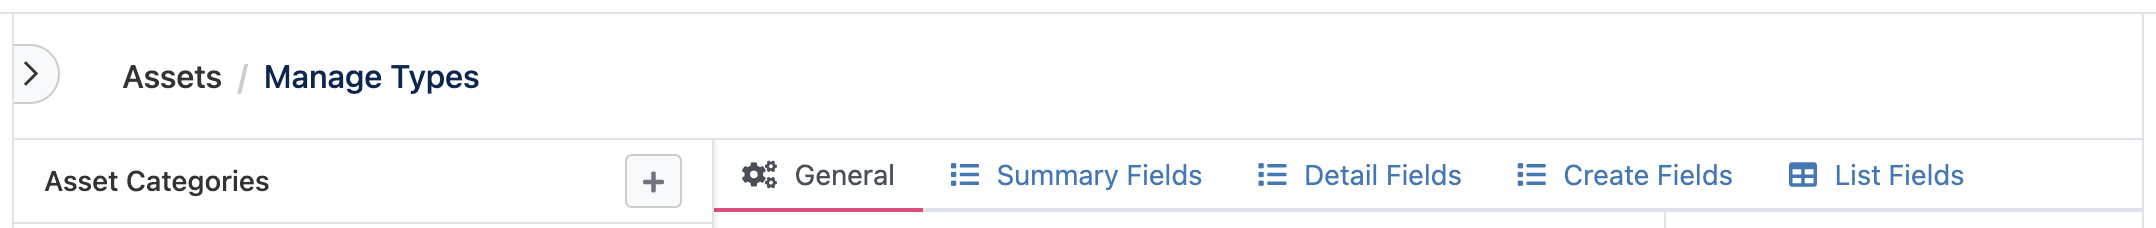
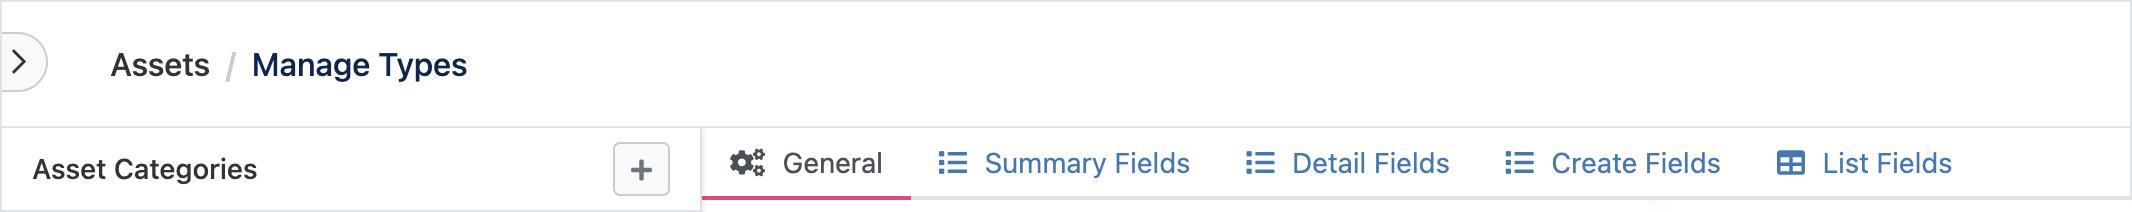
Asset Preview updates
* Added notice to top of Manage Asset Types.
* Fixed markdown layout issues on manage-asset-types.md
* Added section for Common fields
* Added common field button image
* Updated assets-general-tab image
* Removed replicated information
* Removed duplicate md page and added redirect
* Multiple spelling corrections
* Added list of default asset types to the asset structure page.

diff --git a/servicemanager-config/assets/manage-asset-types.md b/servicemanager-config/assets/manage-asset-types.md
@@ -4,64 +4,83 @@ layout: article-toc
 
 # Manage asset types
 
-::: note
-This document covers the [preview release](/servicemanager-config/assets/overview#preview-visibility) of the new asset management features and user interface. You can find documentation for the current UI [here](/servicemanager-user-guide/asset-management/manage-asset-types).
+:::note
+[[INCLUDE https://raw.githubusercontent.com/Hornbill-Docs/hdoc-library/main/hdoc-library/service-manager/new-assets-note.md]]
 :::
 
 Asset management within Hornbill Service Manager allows you to organize and present detailed information about each asset. By organizing assets into specific types, you can establish a comprehensive framework of fields and data tailored to each asset. This approach ensures that all relevant information is readily accessible for any asset.
 
 ## Before you begin
+
 * The [Asset Management Admin role](/servicemanager-config/setup/service-manager-roles#asset-management-roles) is required to manage asset types and categories.
 * Know how to access the [Service Manager Configuration](/servicemanager-config/index#access-service-manager-configuration).
-* To access the Manage Types section in Service Manager configuration, the [new asset preview](/servicemanager-config/assets/overview#new-asset-preview) must be enabled.
 * Understand how the [asset classes, types, and categories are structured](/servicemanager-config/assets/asset-structure).
 * Decide whether you want to [enable asset partitions](/servicemanager-config/assets/manage-partitions) on your instance.
 
 ## Asset Categories
-The Asset Categories panel lists the available asset types along with the option to create and manage the asset type categories.  
+
+Asset Categories allow you to group asset types into logical categories. The Asset Categories panel shows each category and their associated asset types.
 
 ![Asset Categories Panel](/_books/servicemanager-config/images/asset-categories-panel.png)
 
 From the asset categories list you can:
+
 * Create a new category by clicking on the `+` button in the title bar.
 * Select an existing category to view the properties of that category.
 * To the right of the category name, click on the `+` to add a new asset type under that category.
 * Select an existing asset type to view the properties of that asset type.
 * Drag-and-drop asset types between categories.
 
-#### Uncategorized
+### Uncategorized
+
 Any asset type without a category will be listed under **Uncategorized**. From this list, you can drag-and-drop an asset type onto an appropriate category.
 
 Alternatively, by clicking on the Uncategorized title, suggested categories are provided for each uncategorized asset type. Clicking on the `Create and Assign` button will create the new suggested category and add the selected asset types to that category.
 
-## Configuring asset types
+### Asset Category details
+
+When you select a category, you can view and edit the details of that category in the right panel.
+
+#### Available Asset List Columns
+
+The **Available Asset List Columns** section allows you to choose which fields are available to users when viewing a list of assets by category.
+
+##### Use Class Defaults
+
+![Use Class Defaults button](/_books/servicemanager-config/images/assets-use-class-defaults-button.png)
+
+Selecting this button will reset the list of available fields with the default fields for the asset class associated to the category.
+
+##### Category Common field
+
+![Common field](/_books/servicemanager-config/images/assets-common-field-button.png)
+
+Common fields are fields that are shared by all assets. When you add a common field as an available column, users will be able to view this column as part of their category asset list.
+
+## Asset Types
+
 To customize your users' view of assets, navigate to **Configuration > Service Manager > Assets > Manage Types**. Here you'll work in the following tabs:
 
-* [General](/servicemanager-config/assets/manage-asset-types#general). Configure the asset type's summary card, its icon, and so on.
-* [Summary fields](/servicemanager-config/assets/manage-asset-types#summary-fields). Choose the fields that a user sees when viewing an asset in the Summary view.
-* [Detail fields](/servicemanager-config/assets/manage-asset-types#detail-fields). Choose the fields that a user sees when viewing an asset in the Details view.
-* [Create fields](/servicemanager-config/assets/manage-asset-types#create-fields). Choose the fields available to users when new assets are being created.
-* [List fields](/servicemanager-config/assets/manage-asset-types#list-fields). Choose the fields that a user sees when viewing the list of assets in an asset type.
-
-::: tip
-You may find it helpful, when customizing your asset views, to work with two windows open side by side, with one window showing Service Manager > Assets > [a selected asset] and the second window showing your configuration work in **Configuration > Service Manager > Manage Types > [a selected type]**. This way, you can see your modifications in real time.
-:::
-
 ### General
+
 ![General tab](/_books/servicemanager-config/assets/images/assets-general-tab.png)
+
 In the General tab, you can set some of the basic information about the asset type and choose an icon or upload a custom image the will be used for all assets of this type.
+
 * **Name**. The name of the asset that will be displayed everywhere assets are used.
 * **Category**. The category for this asset type.
-* **Description**. A descirption of this asset type.
+* **Description**. A description of this asset type.
 
 #### Asset Card customization
-The Asset Card is a like a businuss card that you can design for your asset. Key information of your choise can be added to the card. The defined asset card will appear on all assets defined under this asset type.
+
+The Asset Card is a like a business card that you can design for your asset. Key information of your choice can be added to the card. The defined asset card will appear on all assets defined under this asset type.
 
 Here is an example of a summary card for an asset of the asset type Printer:
 
 ![Summary card for an asset](/_books/servicemanager-config/assets/images/assets-summary-card.png)
 
 Where is the asset card displayed?
+
 * When viewing an [asset detail record](/servicemanager-user-guide/asset-management/asset-details).
 * When an asset is selected in the [Configuration Item Explorer](/servicemanager-user-guide/configuration-management/configuration-item-explorer).
 
@@ -69,11 +88,8 @@ Where is the asset card displayed?
 When using the Summary Card Editor to customize asset summary cards, use *only* Hornbill-prescribed styles. Do not add your own styles; any other style declarations will be removed by Hornbill.
 :::
 
-In the General tab, you can also use the dropdown to change the category of the asset type (rather than dragging/dropping).
-
-The General tab is also where you can [export and import your Assets UI configuration](/servicemanager-config/assets/manage-asset-types#exporting-and-importing-asset-types).
-
 ### Summary fields
+
 ![Summary Fields tab](/_books/servicemanager-config/assets/images/assets-summary-fields-tab.png)
 
 Go to the Summary Fields tab to choose the fields that a user sees when viewing an asset in the Summary view. The focus of an asset is put on this summary information when a user clicks on an asset in the asset list. You can customize the list of Summary fields so as to highlight the most important or most used fields for this type of asset.
@@ -88,6 +104,7 @@ Here is the Summary view of the same asset, with fields configured in a two-colu
 ![Fields in an asset's Summary view, two-column layout](/_books/servicemanager-config/assets/images/summary-view-of-asset-2-column.png)
 
 ### Detail fields
+
 ![Detail Fields tab](/_books/servicemanager-config/assets/images/assets-detail-fields-tab.png)
 
 In the Details view, users can access extended details beyond what is in the Summary view for an asset. Go to the Detail Fields tab to choose which fields you want users to see when viewing an asset in the Details view.
@@ -95,6 +112,7 @@ In the Details view, users can access extended details beyond what is in the Sum
 Choose between a one-column or two-column layout of the fields. Use the **Quick Layout** button to choose to use default fields or legacy fields. Using legacy fields means Hornbill will read in your asset fields from your existing implementation.
 
 ### Create fields
+
 ![Create Fields tab](/_books/servicemanager-config/assets/images/assets-create-fields-tab.png)
 
 Go here to choose the fields available to a user when creating new assets. Use the **Quick Layout** button to choose to use default fields or legacy fields. Using legacy fields means Hornbill will read in your asset fields from your existing implementation.
@@ -104,44 +122,23 @@ Here is an example of a New Asset dialog when creating an asset of the asset typ
 ![New Asset dialog](/_books/servicemanager-config/assets/images/create-new-asset.png)
 
 ### List fields
+
 ![List Fields tab](/_books/servicemanager-config/assets/images/assets-list-fields-tab.png)
 
-Go to the List Fields tab to choose the fields that a user sees when viewing the list of assets in an asset type. You can drag the columns to change the order in which they appear in the list. Click the eye icon to toggle the columns from visible to hidden. 
+Go to the List Fields tab to choose the fields that a user sees when viewing the list of assets in an asset type. You can drag the columns to change the order in which they appear in the list. Click the eye icon to toggle the columns from visible to hidden.
 
 Here is an example of a what a users sees when viewing the list of assets by the asset type Printer:
 
-![List view when viewing by asset type](/_books/servicemanager-config/assets/images/list-view-for-asset-type.png)<br><br>
-
-<!-- ----JAMES: in this post https://beta.hornbill.com/hornbill/post/urn:buzz:activity:d235058b-5d34-4d6f-8dd9-1ce5b47f281c/ you mentioned responding to a customer about limited search functionality. "We need to search for assets using specific fields based on certain criteria. However, the available search filters are limited and do not include all the necessary fields, as shown in the attached image." Would it be worth adding a tip here, like the one below? (I added two H4 sections based off your response to the customer's post.) -->
+![List view when viewing by asset type](/_books/servicemanager-config/assets/images/list-view-for-asset-type.png)
 
 **Fields available for searching.** As an admin, you can configure the fields that are available for searching. If you want your users to be able to search for assets using specific fields, then add those fields here in the List Fields tab by adding additional columns. Once a column is added, it is available in the search.
 
 **Fields available for CSV download.** The CSV download contains only the columns that you have added here in the List Fields tab.
 
-## Managing asset types
-Service Manager provides a number of asset types by default so that you can quickly start adding your assets. Users can select an asset type when manually adding an individual asset. Admins can specify asset types as part of an import. Admins can also edit or delete the default asset types as necessary.
-
-The default asset types include the following:
-* Desktop
-* Laptop
-* Server
-* Virtual machine
-* Headset
-* Keyboard
-* Monitor
-* Mouse
-* Webcam
-* Smartphone
-* Tablet
-* Printer
-* Scanner
-* Desktop app
-* Mobile app
-* Desk phone
-
-For details about choices to make when creating a new asset type, see [Asset type fields](/servicemanager-config/assets/manage-asset-types#asset-type-fields).
+<!--
 
 **To add a new asset type:**
+
 1. Navigate to **Configuration > Service Manager > Assets > Manage Types**.
 1. In the Asset Categories panel, find the category in which you want to create an asset type.
 1. Next to the category name, click **+** (the plus sign).
@@ -153,6 +150,7 @@ For details about choices to make when creating a new asset type, see [Asset typ
 1. (Optional) Add an image for the asset type by uploading or dropping a file into the Custom Image box.
 
 ### Asset type fields
+
 * **Name.** This is displayed in lists and used for searches and reports. This name is applied to assets created under this asset type.
 * **Class.** The asset class you choose determines the asset attributes that are available to the asset type.
 * **Description.** Add a few words to help users understand more about the type and how it should be used.
@@ -161,18 +159,11 @@ For details about choices to make when creating a new asset type, see [Asset typ
 * **Image.** Add an image as a visual identifier of the asset type. Any asset created using this type will also use this image.
 
 ### Deleting an asset type
+
 You can delete an asset type only when there are no assets associated to it.
 
 **To delete an asset type:**
+
 1. In the Asset Categories list, click the row of the asset type you want to remove.
 1. Click the **Delete** button (trash can icon). If there are assets associated to the type, you will be prevented from deleting it.
-
-### Exporting and importing asset types
-During the implementation phase of your Service Manager deployment, you may want to export asset types for a later import on the same Hornbill instance or another one -- for example, to back up and restore your asset type configuration. You can export the layout of an asset type to a JSON file, (even make changes if necessary), then import the file. You must import the configuration to the same asset type it was exported from.
-
-**To export an asset type:**
-1. Navigate to **Configuration > Service Manager > Assets > Manage Types**.
-1. In the Asset Categories panel, select the asset type you want to export.
-1. In the General tab, click the ellipsis button and select **Export**.
-1. (Optional) Make changes to the JSON file as necessary.
-1. (Optional) When you are ready to import the JSON file, follow the steps above and from the ellipsis, select **Import**.
+-->

diff --git a/servicemanager-config/assets/asset-structure.md b/servicemanager-config/assets/asset-structure.md
@@ -1,5 +1,4 @@
 ---
-title: How assets are structured
 layout: article
 keywords: common fields
 ---
@@ -13,17 +12,14 @@ With Asset Management in Hornbill Service Manager, every asset is part of an ass
 
 ![Asset Structure](/_books/servicemanager-config/assets/images/asset-structure.png)
 
-## Topics covered
-* [Asset classes](/servicemanager-config/assets/asset-structure#asset-classes)
-* [Asset types](/servicemanager-config/assets/asset-structure#asset-types)
-* [Asset categories](/servicemanager-config/assets/asset-structure#asset-categories)
-
 ## Asset classes
+
 Asset classes are predefined and fixed. You cannot modify asset classes. Think of asset classes as templates that provide the data fields for IT assets. Each asset class has a set of available attributes that can be hidden or made available to each of the various asset types you create. By hiding attributes you don't need, you ensure that only the relevant information is visible in your asset records.
 
 When creating a new asset type, you must choose a class. This is because the class chosen dictates which attributes (data fields from the template) are available to populate when adding your individual assets beneath an asset type.
 
 Hornbill's asset classes are the following:
+
 * [Computer System](/servicemanager-external-db/tables/h-cmdb-assets-computer)
 * [Computer Peripheral](/servicemanager-external-db/tables/h-cmdb-assets-computer-peripheral)
 * [Data Processing Record](/servicemanager-external-db/tables/h-cmdb-assets-data-processing-record)
@@ -41,14 +37,32 @@ To view each asset class's attributes and other information (e.g. for use when i
 :::
 
 ### Attributes available to all assets
+
 In addition to the data fields specific to the classes listed above, there are fields shared between all assets, regardless of asset class. These *common fields* [are found here](/servicemanager-external-db/tables/h-cmdb-assets) in the Service Manager Database Schema Reference.
 
 ## Asset types
-Default asset types for each asset class are provided for your use.
 
-You can create any additional asset type to sit within an asset class. You can configure an asset type to use all the asset attributes, or only the ones relevant to your organization's needs.
+Service Manager provides a number of asset types by default so that you can quickly start adding your assets. Users can select an asset type when manually adding an individual asset. Admins can specify asset types as part of an import. Admins can also edit or delete the default asset types as necessary.
 
-When defining the asset type, you can also specify which of the asset attributes are mandatory; this means they must be populated when creating an asset of this asset type.
+The default asset types include the following:
+
+* Desktop
+* Laptop
+* Server
+* Virtual machine
+* Headset
+* Keyboard
+* Monitor
+* Mouse
+* Webcam
+* Smartphone
+* Tablet
+* Printer
+* Scanner
+* Desktop app
+* Mobile app
+* Desk phone
+
 
 <!--
 ## Asset attributes
@@ -272,7 +286,6 @@ See the attributes and other information about this asset class [here](/servicem
 | physicalDiskSize | string         | optional      | Size of the Hard Disk Drive       |
 | serialNumber     | string         | optional      | The serial number for the asset.  |
 
-
 #### Printer class
 
 | **Name**              | **Field Type** | **Required?** | **Description**                                                            |
@@ -361,4 +374,5 @@ See the attributes and other information about this asset class [here](/servicem
 <!-- https://wiki.hornbill.com/index.php?title=Understanding_the_Asset_Structure -->
 
 ## Asset categories
+
 Asset categories are for organizing and grouping asset types. Unlike asset classes, asset categories are customizable. Because you are the one to create the categories to group your asset types, it's you who controls how and where your assets are displayed.

diff --git a/servicemanager-config/assets/new-assets-mode-infokit.md b/servicemanager-config/assets/new-assets-mode-infokit.md
@@ -61,7 +61,7 @@ Hornbill is providing several resources to assist with your transition.
 
 ### In-person events
 
-Join us at our [Connect Events](https://hornbill.com/events) in June for hands-on activities exploring the new asset mode. 
+Join us at our [Connect Events](https://hornbill.com/events) in June for hands-on activities exploring the new asset mode.
 
 ### Documentation
 